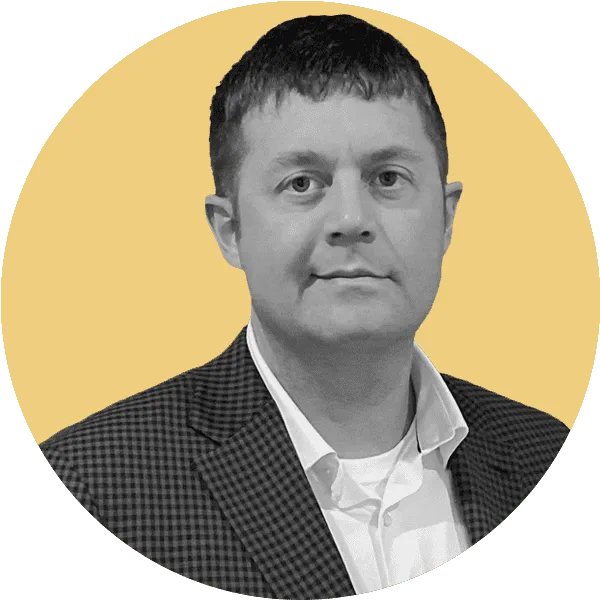
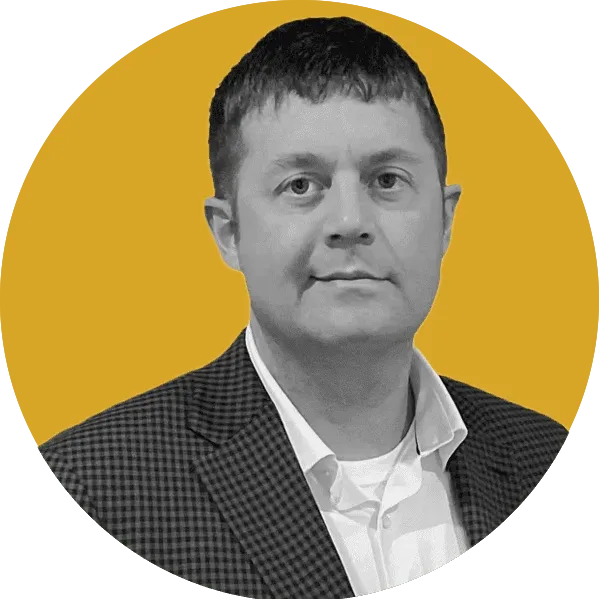
fixed colors

diff --git a/src/pages/index.js b/src/pages/index.js
@@ -1,8 +1,9 @@
-import React, { useMemo } from 'react'
+import React, { useMemo, useEffect, useState } from 'react'
 import { css } from "@emotion/react";
 
 import Layout from '../design/Layout'
 import LowdownCTA from '../design/LowdownCTA'
+import CapitolizedCTA from '../design/CapitolizedCTA'
 import Link from 'next/link';
 
 import Markdown from 'react-markdown'
@@ -27,7 +28,7 @@ import { hasPortrait } from '../lib/portraits'
 
 const RACE_LEVELS = [
     'Federal Delegation',
-    'State Officials',
+    // 'State Officials',
     'Montana Supreme Court',
     'Public Service Commission'
 ]
@@ -61,6 +62,8 @@ const overviewStyles = css`
         text-transform: uppercase;
     }
 `
+
+
 
 export async function getStaticProps() {
     const races = getRaceOverviews().map(race => ({
@@ -96,6 +99,13 @@ export default function Home({ races, legislativeRaces, ballotIssues, text, voti
         mtSenate: 'SD-1', // e.g. 'SD-1'
         matchedAddress: null
     })
+
+    const [showLowdown, setShowLowdown] = useState(null);
+
+    useEffect(() => {
+        setShowLowdown(Math.random() < 0.5);
+    }, []);
+
 
     const {
         overviewLedeIn,
@@ -137,7 +147,7 @@ export default function Home({ races, legislativeRaces, ballotIssues, text, voti
 
             <section>
                 <div>
-                    {raceLevels.slice(0, 2).map(rl => {
+                    {raceLevels.slice(0, 1).map(rl => {
                         return <div key={rl.level}>
                             <a className="link-anchor" id={urlize(rl.level)}></a>
                             <h2>{rl.level}</h2>
@@ -165,7 +175,10 @@ export default function Home({ races, legislativeRaces, ballotIssues, text, voti
             </section>
             <hr />
 
-            <LowdownCTA />
+            {showLowdown === true && <LowdownCTA />}
+            {showLowdown === false && <CapitolizedCTA />}
+
+
 
             <section>
                 <a className="link-anchor" id="legislature"></a>
@@ -197,7 +210,7 @@ export default function Home({ races, legislativeRaces, ballotIssues, text, voti
 
             <section>
                 <div>
-                    {raceLevels.slice(2,).map(rl => {
+                    {raceLevels.slice(1,).map(rl => {
                         return <div key={rl.level}>
                             <a className="link-anchor" id={urlize(rl.level)}></a>
                             <h2>{rl.level}</h2>
@@ -225,14 +238,14 @@ export default function Home({ races, legislativeRaces, ballotIssues, text, voti
             </section>
             <hr />
 
-{/* TODO: Enable once we have ballot initiatives */}
+            {/* TODO: Enable once we have ballot initiatives */}
             {/* <section>
                 <a className="link-anchor" id="ballot-initiatives"></a>
                 <h2>Ballot initiatives</h2>
                 <Markdown>{overviewBallotInitiatives}</Markdown>
                 <BallotInitiativeOverview ballotIssues={ballotIssues} />
             </section> */}
-{/* TODO: Enable for general */}
+            {/* TODO: Enable for general */}
             <section>
                 <h2>Other ballot items</h2>
                 <Markdown>{overviewAlsoOnYourBallot}</Markdown>

diff --git a/src/design/CapitolizedCTA.js b/src/design/CapitolizedCTA.js
@@ -3,7 +3,7 @@ import { useState } from 'react'
 import { css } from '@emotion/react'
 
 import Image from 'next/image';
-import wideCapitolizedLogo from "../../public/mt-lowdown-banner-post.webp"
+import wideCapitolizedLogo from "../../public/Capitolized400x147.webp"
 
 const style = css`
     background: #191919;
@@ -82,11 +82,11 @@ const style = css`
 `
 
 // Temporary link approach
-export default function LowdownCTA() {
+export default function CapitolizedCTA() {
     return <div css={style}>
         <div className="row">
             <div className="img-col">
-                <a href="https://montanafreepress.org/mt-lowdown/">
+                <a href="https://montanafreepress.org/newsletters-sign-up/">
                     <Image
                         src={wideCapitolizedLogo}
                         alt="Capitolized newsletter"
@@ -98,25 +98,12 @@ export default function LowdownCTA() {
             </div>
             <div className="words-col">
                 {/* <div className="message">Sign up for CAPITOLIZED</div> */}
-                <div className="message-2">Want original Montana Free Press reporting and analysis sent to your inbox each week?</div>
+                <div className="message-2">Expert reporting and insight from the Montana Capitol, emailed Thursdays.</div>
                 <br />
                 <div className="signup">
-                    👉 <a href="https://montanafreepress.org/mt-lowdown/"> SIGN UP HERE</a>
+                    👉 <a href="https://montanafreepress.org/newsletters-sign-up/"> SIGN UP HERE</a>
                 </div >
             </div>
         </div>
     </div >
 }
-// const CTA_LINK = 'https://montanafreepress.org/mt-lowdown/'
-
-// export default function LowdownCTA() {
-//     return <div css={ctaStyle}>
-//         <div className="message">Want original Montana Free Press reporting and analysis sent to your inbox each week?</div>
-//         <a href={CTA_LINK}>
-//             <div className="button">Sign up for the free</div>
-//             <Image className="lowdownBanner" src={lowdownLogo} alt="Montana Lowdown newsletter" width={450} marginTop={10}/>
-//             <div className="button">Lowdown newsletter</div>
-//         </a>
-//         <div className="outro">Delivered Friday afternoons</div>
-//     </div>
-// }

diff --git a/src/design/Header.js b/src/design/Header.js
@@ -93,14 +93,14 @@ const Header = () => {
   const { webSubtitle } = metaData
   const router = useRouter()
   return <div css={headerStyle} style={{
-    backgroundImage: `linear-gradient( rgba(23, 24, 24, 0.2), rgba(23, 24, 24, 0.5) ), url(${router.basePath}/2022-ballot-background.jpg)`
+    backgroundImage: `linear-gradient( rgba(23, 24, 24, 0.2), rgba(23, 24, 24, 0.5) ), url(${router.basePath}/2022-ballot-background.webp)`
   }}>
     <h2 className="ledein">Montana Free Press</h2>
     <h1 className="title"><Link href="/">
       Election <span className="mid-title-icon" style={{
-        backgroundImage: `url(${router.basePath}/mt-outline-white-fill.png)`
+        backgroundImage: `url(${router.basePath}/mt-outline-white-fill.webp)`
       }}>2026</span> Guide
-    </Link></h1>
+    </Link></h1>2
     <h2 className="subtitle">{webSubtitle}</h2>
     <div className="mtfp-blurb">
       A digital project by <MTFPLogo />| <a className="donate-link" href={headerDonateLink}>Support this work</a>

diff --git a/src/design/Footer.js b/src/design/Footer.js
@@ -3,6 +3,8 @@ import Image from 'next/image'
 
 import { footerMenus, footerLogoUrl } from '../config'
 
+import mtfpLogo from '../../public/mtfp-logo.webp'
+
 const footerStyle = css`
 
     font-size: 13px;
@@ -96,9 +98,9 @@ const Footer = (props) => {
             <div css={footerInfoStyle}>
                 <span>© {new Date().getFullYear()} Montana Free Press. </span>
                 <a href="https://montanafreepress.org/about-mtfp/privacy-policy/">Privacy Policy</a>
-                <Image alt="MTFP logo" width={121} height={47} css={footerImgStyle} src={footerLogoUrl} />
+                <Image alt="MTFP logo" width={121} css={footerImgStyle} src={mtfpLogo} />
             </div>
-        </div>
+        </div>Í
 
     </footer>
 }

diff --git a/src/lib/styles.js b/src/lib/styles.js
@@ -3,7 +3,7 @@ export const PARTIES = [
     { key: 'D', noun: 'Democrat', adjective: 'Democratic', color: '#4575b4' },
     { key: 'L', noun: 'Libertarian', adjective: 'Libertarian', color: '#e89a0b' },
     { key: 'G', noun: 'Green', adjective: 'Green Party', color: '#4b9441' },
-     { key: 'I', noun: 'Independent', adjective: 'Independent', color: '#8748f7' },
+     { key: 'I', noun: 'Independent', adjective: 'Independent', color: '#6f5bb5' },
     { key: 'NP', noun: 'Nonpartisan', adjective: 'Nonpartisan', color: '#e76f41' },
     // { key: 'I', noun: 'Independent', adjective: 'Independent', color: '#666' },
     // { key: 'NP', noun: 'Nonpartisan', adjective: 'Nonpartisan', color: '#666' },

diff --git a/src/design/MTFPLogo.js b/src/design/MTFPLogo.js
@@ -1,7 +1,7 @@
 import { css } from '@emotion/react'
 import Image from 'next/image'
 
-import mtfpLogo from "../../public/mtfp-logo.png"
+import mtfpLogo from "../../public/mtfp-logo.webp"
 
 const containerCss = css`
     display: inline-block;

diff --git a/inputs/content/how-to-vote.md b/inputs/content/how-to-vote.md
@@ -16,11 +16,11 @@ You can register to vote by stopping by your county election office any time dur
 
 ### Can I register to vote on Election Day?
 
-Yes. The state Legislature has sought to enact an earlier registration deadline, but under a March 2024 ruling by the Montana Supreme Court, same-day voter registration remains legal in Montana. Residents can register to vote or update their voter registration at their county’s election office prior to 8 p.m. on Election Day.
+Yes, but with some changes resulting from new laws passed by the 2025 Legislature. In the past, would-be voters could register up until 8 p.m. on Election Day. Now, thanks to [Senate Bill 490](https://projects.montanafreepress.org/capitol-tracker-2025/bills/sb-490/), qualified citizens can register to vote only between 8 a.m. and noon on Election Day. Other late-registration changes to be aware of: You can no longer register to vote on the Monday before Election Day, and you can now register to vote up until 5 p.m. on the Saturday before Election Day
 
 ### Does Montana have voter ID requirements?
 
-Yes, you will be required to present identification when voting at the polls. However, under the Montana Supreme Court’s March ruling, changes made to those requirements by the 2021 Legislature remain blocked. The current forms of identification voters can use at the polls are a current Montana driver’s license, state-issued photo ID, tribal or military photo ID, a U.S. passport or a student ID. If you don’t have a photo ID, you can use a utility bill, a bank statement, a voter confirmation card or any other government document that shows your name and address.
+Yes, and some of them are new after the 2025 legislative session. That’s when lawmakers passed and Gov. Greg Gianforte signed [Senate Bill 276](https://projects.montanafreepress.org/capitol-tracker-2025/bills/sb-276/), which implements a new photo ID requirement. (Previously, registrants could use mail addressed to them or fill out a form to vote without photo ID.) Accepted forms of photo ID for voting in 2026 are a valid Montana driver's license or Real ID, Montana state identification card, military ID, tribal photo ID, U.S. passport, Montana concealed carry permit, or Montana university system photo ID. 
 
 ### Are there situations where I wouldn't be eligible to vote?
 
@@ -40,12 +40,14 @@ In 2025, legislators passed a law requiring that voters write their year of birt
 
 You can return ballots by mail, or drop them off in person at your county’s election office. Either way, the election office must receive your ballot by 8 p.m. on Election Day in order to count it.
 
+Be aware that another 2025 law, [House Bill 719](https://projects.montanafreepress.org/capitol-tracker-2025/bills/hb-719/), now requires that voters write their year of birth alongside the required signature on all mail ballot envelopes. Mail ballot envelopes without a birth year may be rejected. Again, you can [check the status of your ballot](https://voterportal.mt.gov/WhereToVote.aspx) on the secretary of state’s website.
+
 ### How do I vote in person?
 
 If you plan to vote at the polls, just be sure you know where your polling location is and head there between 7 a.m. and 8 p.m. on Election Day. You'll need to provide a photo ID or other accepted form of identification and sign the precinct register, at which point you’ll get your ballot and be directed to a voting booth. If you have any technical questions or run into any problems, the election judges at your polling place should be able to help you.
 
 ### I have a friend or family member who isn't able to drop off his or her mail-in ballot. Can I do it for them?
-Yes, you can. The Montana Legislature did make some changes to ballot collection laws in 2021 related to paid ballot collection, but those changes have also been blocked by the Montana Supreme Court.
+Yes, you can.
 
 ### Who should I vote for?
 
